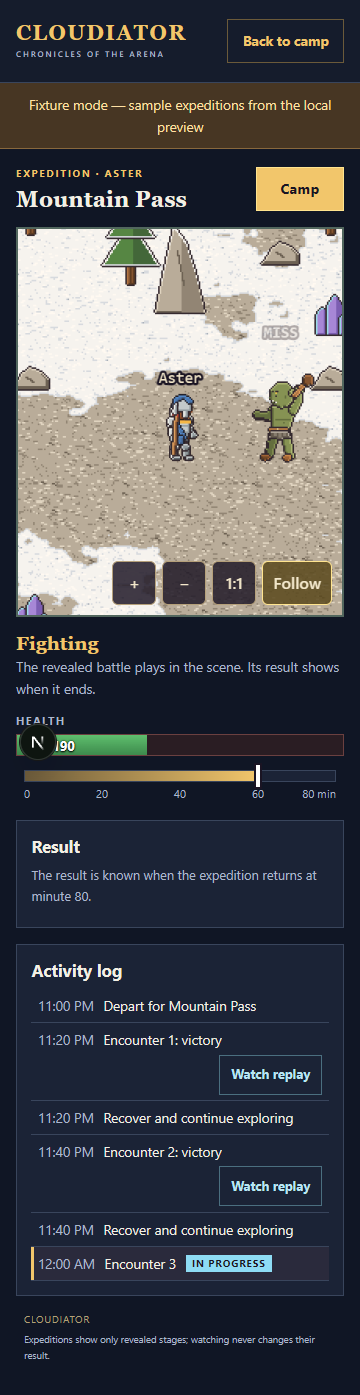
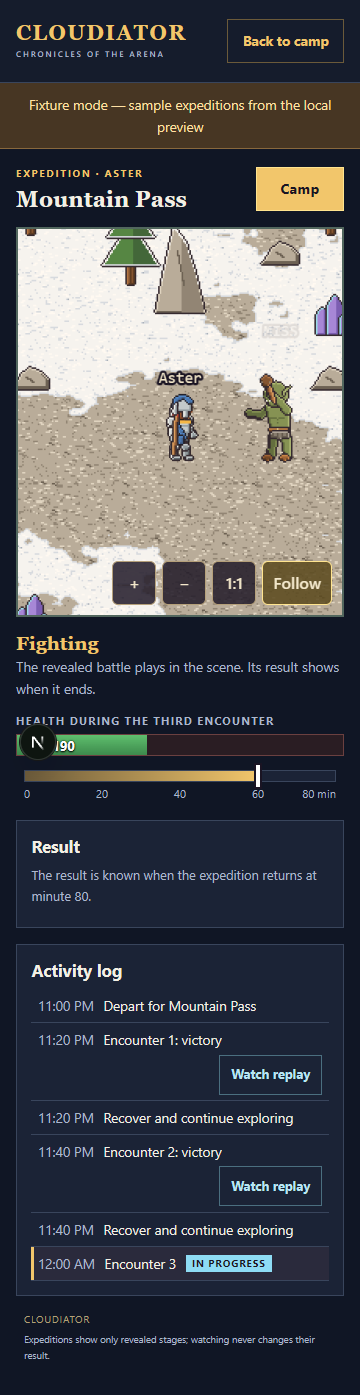
docs: record Task 15 review fix pass
Add a "Review fix pass" section to the Task 15 report for fa27a50: the
five Minors fixed (arrival leaves the scene with a "Returned to camp"
banner, encounter-qualified health with a static recovery note, the
hidden-tab pause and its test, replay expiry from the settled summary
only, and the interim 30-second read while Preparing or awaiting the
owner's summary), each with its RED and GREEN, the commands and results,
and notes. Mark the earlier ambiguities, limitations and the Task 10 gate
that this pass supersedes (passMarks is now readDue).

Refresh every development screenshot in task-15-evidence/ from the final
fa27a50 dev run (the health label appears in all of them) and add the
desktop and mobile "Returned to camp" views. The production screenshot is
unchanged.

diff --git a/docs/implementation/task-15-report.md b/docs/implementation/task-15-report.md
@@ -56,7 +56,7 @@ Status: **DONE_WITH_CONCERNS**. Implemented and verified; the independent review
   - Ownership means a summary is visible in the state (only once `settledAtMs` has passed), or `owner().gladiatorId` equals the expedition's gladiator id.
   - Before either is known (a fixture before its first encounter), the header reads just `EXPEDITION`.
   - `world()` and `owner()` are read once, after the timeline exists. In live mode today, neither runs.
-- **Reads.** The view reads the timeline on entry, once per reveal mark passed (`passMarks`), and on focus or visibility. A later failed read keeps the last timeline. The display clock never runs backwards, and a server ahead of it moves it forward.
+- **Reads.** The view reads the timeline on entry, once per reveal mark passed (`passMarks`, now `readDue` with a 30-second poll; see "Review fix pass"), and on focus or visibility. A later failed read keeps the last timeline. The display clock never runs backwards, and a server ahead of it moves it forward.
 - **What it never does.** The view never sends a command. All names and labels are React text.
 
 **Route** (`src/app/expedition/page.tsx`, approved shared edit): a fixed page copying the replay pattern (`Suspense` with `useSearchParams`).
@@ -142,8 +142,8 @@ The evidence these edits require is under "Commands and results" and "Evidence".
 **Ambiguities resolved.**
 1. **Summary timing.** The fixture timeline holds every stage and summary. A summary counts only once its `settledAtMs` has passed on the display clock, so a fixture can never show results early.
 2. **Owner or spectator.** The state cannot know who is watching, so the view decides (see "Identity" above). The expired fixture has no logs; its summary makes it the owner's.
-3. **Health between encounters.** It shows the last log's `finalHp`, which is 0 after a tie-break win. The next encounter's log then shows the server's healed `initialHealth`. Showing the heal earlier would mean computing it in the browser.
-4. **After minute 80.** The scene leaves the gladiator waiting at the trail's end (the way back to camp), while the text says "Back at camp".
+3. **Health between encounters.** It shows the last log's `finalHp`, which is 0 after a tie-break win. The next encounter's log then shows the server's healed `initialHealth`. Showing the heal earlier would mean computing it in the browser. *Review fix pass:* the label now names the encounter the value comes from, with a static recovery note; still no computed heal.
+4. **After minute 80.** The scene leaves the gladiator waiting at the trail's end (the way back to camp), while the text says "Back at camp". *Superseded by the review fix pass:* the gladiator now leaves the scene and the scene shows "Returned to camp".
 5. **A defeat's creature.** After the result poses, the creature fades out whether it won or lost.
 6. **Text uniqueness.** Phase titles never contain "Encounter N", so the plan's `getByText('Encounter 1')` and `'Returning without rewards'` assertions each match exactly one element.
 7. **Production gate harness.** The dispatch allows Playwright only through `pw-claude.config.mjs`. That config therefore gained a static mode: with `PLAYWRIGHT_STATIC=true` it serves `PLAYWRIGHT_STATIC_ROOT` on port 3200 through a private copy of `scripts/serve-static.mjs` (`node_modules/.cache/serve-static-3200.mjs`). This replaces the repository config's port 4173. Both files are ignored local tooling.
@@ -268,12 +268,12 @@ In the export, "Sample expeditions" appears only as the game page's JSX `aria-la
 | `mobile-expedition-tiebreak-victory-at-0hp.png` | The same on a Pixel 7 |
 | `desktop-expedition-delayed-preparing.png` | Preparing at minute 45: waiting at encounter 2's tile, no creature |
 | `desktop-expedition-spectator.png` | Another gladiator's journey: "Gladiator" asleep at the safe point, no rewards |
-| `desktop-expedition-woodland-arrival-behind-oak.png` | The trail's end at minute 85: the oak in front of the gladiator faded; evening light |
+| `desktop-expedition-woodland-arrival-behind-oak.png` | The trail's end at minute 85: the oak in front of the gladiator faded; evening light (refreshed in the review fix pass: one second before arrival, because the gladiator has left by minute 85) |
 | `desktop-expedition-woodland-settled.png` | Full page: Success, credited rewards from the summary, retention note, the full log with Watch replay links |
 | `width360-expedition-mountain-encounter.png` | A 360 px screen, full page during Mountain encounter 3 |
 | `production-expedition-fixture-refused.png` | The exported route refusing `mode=fixture&minute=39` |
 
-The small "N" in development screenshots is the Next.js development indicator. The development screenshots come from the `b31136b` run. The `7c2ee9b` fix changes only the header before identity is known, which no screenshot captures. The production screenshot comes from the final `7c2ee9b` gate.
+The small "N" in development screenshots is the Next.js development indicator. The development screenshots come from the `b31136b` run. The `7c2ee9b` fix changes only the header before identity is known, which no screenshot captures. The production screenshot comes from the final `7c2ee9b` gate. The review fix pass refreshed every development screenshot above (see that section); the production one is unchanged.
 
 ## Files
 
@@ -296,12 +296,12 @@ The small "N" in development screenshots is the Next.js development indicator. T
 - **Fixtures hold every stage.** The fixture gateway has no clock, so each fixture timeline contains its future stages and summary. Only the pure core's `revealedAtMs` and `settledAtMs` rules hide them. Server-side reveal filtering is Task 10's.
   - A side effect: a fixture replay opened from the view lists every encounter in that fixture timeline, including encounters not yet due on the expedition's display clock. With real published timelines, only due stages exist.
 - **Live mode** shows the unavailable state until Task 10 provides `timeline()` and `world()`.
-- **Refetch cadence.** The dispatch rule refetches at the marks and on focus only. A stage published late, while Preparing shows, appears at the next 20-minute mark or on focus, not at once. Task 10's 30-second revision poll closes this.
+- **Refetch cadence.** The dispatch rule refetches at the marks and on focus only. A stage published late, while Preparing shows, appears at the next 20-minute mark or on focus, not at once. Task 10's 30-second revision poll closes this. *Closed in the review fix pass by an interim 30-second poll while Preparing or awaiting the owner's summary.*
 - **The world fixture is unchanged.** Fixture expeditions therefore never match an actor by activity, so the look comes from the first log.
   - The owner's name comes from the world actor with the log's gladiator id, or from `owner()`. Before the first revealed log, the fixture view cannot tell the owner from a spectator, so it names nobody.
   - Before the first encounter is revealed, the owner's gladiator draws in default gear (a fixture-only effect).
 - **Scene approximations.**
-  - At minute 80 and later, the gladiator stays at the trail's end in the scene.
+  - At minute 80 and later, the gladiator stays at the trail's end in the scene. *Fixed in the review fix pass: it leaves the scene.*
   - A creature that won also fades after the result poses.
   - Follow glides at a fixed 0.12 per frame.
   - Fps targets remain Task 23.
@@ -314,9 +314,114 @@ The small "N" in development screenshots is the Next.js development indicator. T
 - **Task 10.**
   - Implement live `timeline(id)` (only due stages, `reveal_at <= database time`), `world()` and `owner()` for this page.
   - Keep the owner/spectator split: no summary on another owner's timeline.
-  - Replace `useTimelineReads` and `passMarks` in `ExpeditionView.tsx` with the shared sync controller (revision poll, hidden-tab pause, focus refresh).
+  - Replace `useTimelineReads` and `readDue` (formerly `passMarks`) in `ExpeditionView.tsx` with the shared sync controller (revision poll, hidden-tab pause, focus refresh).
   - Decide whether the view should use `visibleThroughMs`.
 - **Task 13.**
   - Open `/expedition/?activity=<id>` from the camp roster or character card (`view-expedition`), and emit `return-camp` if the camp needs it.
   - Give the camp's away indicator a link here.
   - Use the shared live sync clock and the scene-availability status for late panels.
+
+## Review fix pass
+
+Status: **DONE**. The independent review found spec, quality and visual Pass, ready to merge, with Minors only. The controller chose five Minors to fix now; each was fixed test-first.
+
+- Date: 2026-10-14, Asia/Jerusalem. A fresh implementer, same worktree and branch, on top of `2a102b4`.
+- Commits:
+  - `fa27a50`: `fix: apply Task 15 review Minors` (source and tests);
+  - the commit that adds this section and the refreshed evidence.
+- Not changed, as instructed: the replay page's behaviour (`src/game/replay.ts`) and the default zoom. Both remain later gates.
+- Nothing was pushed or merged. No Supabase command was run. `HANDOFF.md` is untouched. Playwright ran only through `node_modules/.cache/pw-claude.config.mjs` on port 3200.
+
+### What changed
+
+| # | Minor | Change | Files |
+| --- | --- | --- | --- |
+| 1 | After arrival, the text says the gladiator is back at camp, but the scene still shows it on the trail or at the safe point. | **Core.** `RouteProgress.then` gains `'leave'`. Once the final `Arrive at camp` stage is current, the route is `{ from: X, to: X, then: 'leave' }`, where X is `end` after a success and `safe` after a defeat; `walkedMs` counts from the arrival.<br>**Scene.** The gladiator and its name label fade out over 1.5 s (`HERO_LEAVE_MS`); with reduced motion they disappear at once. Props no longer fade for a gladiator who has left. A new `onReturned` callback tells the viewport.<br>**Viewport.** A "Returned to camp" banner appears over the scene, but only while the scene is ready (never in a WebGL or art fallback). It fades in through CSS, with no animation under reduced motion.<br>**Debug hook (fixture-only).** New fields `returned`, `gladiator.alpha` and `gladiator.labelVisible`. | `src/game/expedition-stage.ts`, `expedition-scene.ts`, `ExpeditionViewport.tsx`, `ExpeditionViewport.module.css` |
+| 2 | Health reads 0 while exploring after a tie-break win. | **Label.** The health label now says which encounter the value comes from: "Health during/after the first/second/third encounter", taken from `hp.encounter` and whether that stage is still in progress. The meter's `aria-valuetext` says the same.<br>**Note.** After a won encounter 1 or 2, a static note reads "Health recovers before the next encounter." No heal is computed.<br>**Ordinal words.** The label uses "first, second, third" rather than "encounter 1". Playwright's `getByText` matches a case-insensitive substring by default, so "Health after encounter 1" would also match the plan's `getByText('Encounter 1')`. That would break the text-uniqueness rule (ambiguity 6). | `src/features/character/ExpeditionView.tsx`, `ExpeditionView.module.css` |
+| 3 | No hidden-tab test for this scene. | **Test.** A hidden/visible test modelled on the one in `replay.spec.ts`.<br>**Defect found.** The scene kept drawing while hidden. The cause is Phaser 4.2.1's `HIDDEN` handler, `Game.onHidden` → `TimeStep.pause()`, which only records the pause time. The animation-frame loop and `update()` keep running whenever the browser keeps delivering frames.<br>**Fix.** `update()` now returns early while `document.visibilityState === 'hidden'`. The first frame back reads the current display time. | `src/game/expedition-scene.ts` |
+| 4 | `kept` reads the ungated summary. | `kept` now comes from the `settledAtMs`-gated summary, like every other summary field. | `src/game/expedition-stage.ts` |
+| 5 | The interim re-read cadence can stall for up to 20 minutes. | **Function.** `passMarks` became `readDue(schedule, state, owner)`. It is still the one small function Task 10's sync controller replaces, and it keeps the mark reads.<br>**Poll.** While the tab is visible and the phase is `preparing`, or the owner's summary is awaited (`owner && awaitingSummary`), a read is due once `POLL_MS` (30 s, spec 10.5) of display time have passed since the last read.<br>**Restart.** Every read restarts the interval: entry, schedule or focus/visibility. `useTimelineReads` reports reads through a new `onRead` callback. The first tick after entry starts the interval, and a fixture clock held back in time restarts it.<br>**Owner.** Ownership reaches the tick through `ownerRef`. A spectator never polls for a summary.<br>**Hidden tab.** The tick already returns early while hidden, so polling pauses. | `src/features/character/ExpeditionView.tsx` |
+
+### RED and GREEN
+
+1. **Arrival.**
+   - New unit test "has the gladiator leave the scene once it arrives at camp, from where it last was". RED: `then: "wait"` where `"leave"` was expected. Three existing assertions were updated to `then: 'leave'` and failed the same way (minute table after a defeat, `laststand` at minute 80, the journey at minute 85).
+   - New browser test "has the gladiator leave the scene once the expedition is back at camp, and says so in the scene". RED: `returned` was `undefined`.
+   - The reduced-motion test's new arrival check failed too: the gladiator was still shown.
+   - GREEN, for the Woodland success and the Outpost defeat:
+     - 1 s before arrival: in full view at the trail's end or the safe point;
+     - 0.75 s after: alpha between 0.2 and 0.8, `returned: true`;
+     - 5 s after: invisible, label hidden, no prop faded, "Returned to camp" visible;
+     - the phase still reads "Back at camp" or "Back at camp after a defeat";
+     - mid-journey: no banner;
+     - reduced motion: hidden 0.1 s after arrival;
+     - without WebGL: no banner, and "Back at camp" in the text.
+   - Two `expedition-path` assertions (a `leave` route poses idle at its point) passed at once, because `gladiatorPose` already treated other arrival actions as idle. They guard that behaviour; they were not a RED.
+2. **Health.** New browser test "names the encounter the shown health comes from, and notes the recovery after a non-final win".
+   - RED: "Health after the first encounter" was not found.
+   - GREEN:
+     - `tiebreak` after encounter 1: 0/100, labelled "after the first encounter", with the note (also at minute 39.9);
+     - during encounter 2: "during the second encounter", no note;
+     - after the encounter 2 defeat: "after the second encounter", no note;
+     - Woodland at minute 59: "after the second encounter" with the note;
+     - Woodland at minute 70: "after the third encounter", no note;
+     - `getByText('Encounter 1')` still matches exactly one element at minute 39.
+3. **Hidden tab.** New browser test "pauses the scene while the tab is hidden and shows the current moment when it returns". It opens Woodland at minute 5, while the gladiator walks.
+   - RED: while hidden, the scene's `displayNowMs` moved from …100855.6 to …101666.9 (811 ms). This confirmed the scene did not pause.
+   - GREEN while hidden: `displayNowMs`, the gladiator debug state and the camera stay identical for 800 ms, with no read.
+   - GREEN once visible again: exactly one refresh. The scene then jumps more than 800 ms ahead, to within 500 ms of the view's clock, with the pose that `gladiatorPose` gives for that time.
+4. **`kept`.** New unit test "reads replay expiry only from a summary that is settled by the display time". It uses a Woodland timeline whose summary says the replays expired.
+   - RED: minute 39 gave `[]` where `[1]` was expected.
+   - GREEN: `[1]` at minute 39, `[1, 2, 3]` at minute 80 and at `settledAtMs - 1`, and `[]` at `settledAtMs`.
+   - The old assertion `replays(at(expired, 39)) = []` encoded the ungated read, so it was removed.
+5. **Cadence.** New browser test "re-reads every 30 seconds while a due stage or the owner's summary is awaited, and stops once it arrives". It uses the fixture clock: `freeze` through the debug hook, 0.7 s of ticks per step.
+   - RED: in the `delayed` fixture at +30 s, the count stayed at 2 where 3 was expected.
+   - GREEN, `delayed`, Preparing from minute 46:00: no read at +10, +20 or +29.5 s. One read each at +30 s and +60 s, none at +45 or +89.5 s.
+   - GREEN, Woodland held 2 minutes before departure (Preparing, nothing revealed): one read at +30 s. When the departure appears, the reads stop: none at +31, +61 or +91 s.
+   - GREEN, the owner's Woodland at minute 80 (Processing results): one read at 80:30. None once the summary settles at 80:45, nor 30, 60 or 90 s later.
+   - GREEN, spectator at minute 85: no read over 90 s.
+
+### Commands and results (final source, `fa27a50`)
+
+```text
+npm test                                        20 files, 399 passed (was 397: +2 stage tests)
+npm run typecheck                               tsc clean; Deno check; Deno test 2 passed
+node assets/source/build-assets.mjs --check     assets up to date (28 files); no art changed
+npm run build                                   static: /, /_not-found, /auth/callback, /expedition, /game, /replay
+npm run verify:static                           Static export verified: 5 fixed routes; 90 assets scanned; no forbidden backend material.
+grep -rlE <fixture data> out/                   0 files: expedition activity ids, fixture-receipt, creature:dire-wolf:1, Varro, Aster,
+                                                "Recover and continue exploring", light-boots:1:uncommon, the fixture gateway's text
+npx playwright test -c node_modules/.cache/pw-claude.config.mjs          (dev, port 3200, desktop + mobile)
+                                                153 passed, 7 skipped (the same expected skips); expedition.spec 23 tests x 2 projects
+CLOUDIATOR_BROWSER_TEST=true NEXT_PUBLIC_FIXTURE_ENABLED=true npm run build
+npm run verify:static -- .next/browser-test     5 fixed routes; 90 assets; no forbidden backend material; same fixture greps 0 files
+PLAYWRIGHT_STATIC=true PLAYWRIGHT_STATIC_ROOT=.next/browser-test npx playwright test -c node_modules/.cache/pw-claude.config.mjs
+  tests/browser/shell.spec.ts tests/browser/camp.spec.ts tests/browser/replay.spec.ts tests/browser/expedition.spec.ts
+                                                8 passed, 118 skipped (fixture-only suites)
+git diff --check / git diff --cached --check    clean
+```
+
+The new UI strings "Returned to camp" and "Health recovers before the next encounter." appear in one exported JavaScript chunk, as view copy. No fixture data appears.
+
+### Evidence refreshed (`docs/implementation/task-15-evidence/`)
+
+Every development screenshot was replaced from the final `fa27a50` dev run, because the health label appears in all of them. The production screenshot is unchanged.
+
+| File | Shows now |
+| --- | --- |
+| `desktop-expedition-woodland-returned-to-camp.png` (new) | Minute 85: the gladiator gone, "Returned to camp" over the scene, "Back at camp", health after the third encounter |
+| `mobile-expedition-woodland-returned-to-camp.png` (new) | The same on a Pixel 7 |
+| `desktop-expedition-woodland-settled.png` | Full page at settlement: the banner over an empty trail's end, Success, credited rewards, the full log |
+| `desktop-expedition-woodland-arrival-behind-oak.png` | One second before arrival: the waiting gladiator behind the faded oak, "Returning to camp" |
+| `desktop-expedition-tiebreak-victory-at-0hp.png`, `mobile-…` | Exploring after the tie-break: "Health after the first encounter 0 / 100" and the recovery note |
+| `desktop-expedition-woodland-minute-39.png` | Searching at spot 2; health after the first encounter with the note |
+| `desktop-expedition-outpost-minute-65-safe-point.png` | Returning without rewards; "Health after the second encounter 0 / 155", no note |
+| `desktop-expedition-delayed-preparing.png`, `desktop-expedition-spectator.png` | As before, with the qualified health label |
+| `desktop-expedition-{woodland-encounter-1,outpost-encounter-2,mountain-encounter-2}.png`, `width360-expedition-mountain-encounter.png` | The fights, with "Health during the … encounter" |
+
+### Notes and remaining limitations
+
+- **Banner as DOM text.** The "Returned to camp" banner is DOM text over the canvas, not drawn by Phaser. It stays crisp at every zoom step and uses the app's type. Without a scene, the phase text alone says the gladiator is back.
+- **Display-time polls.** The interim poll counts display time, which runs in real time while the tab is visible. In live mode, a read that finds the server clock ahead moves the display clock forward. While a stage is still awaited, that can make the next tick's poll due at once: one extra read, after which the interval restarts. Live reads stay unavailable until Task 10.
+- **Fixture summaries.** As before, a fixture's summary "arrives" when the display clock passes `settledAtMs`. The extra reads return the same full fixture timeline.
+- **Unchanged later gates.** The replay page's behaviour and the default zoom, as instructed.
